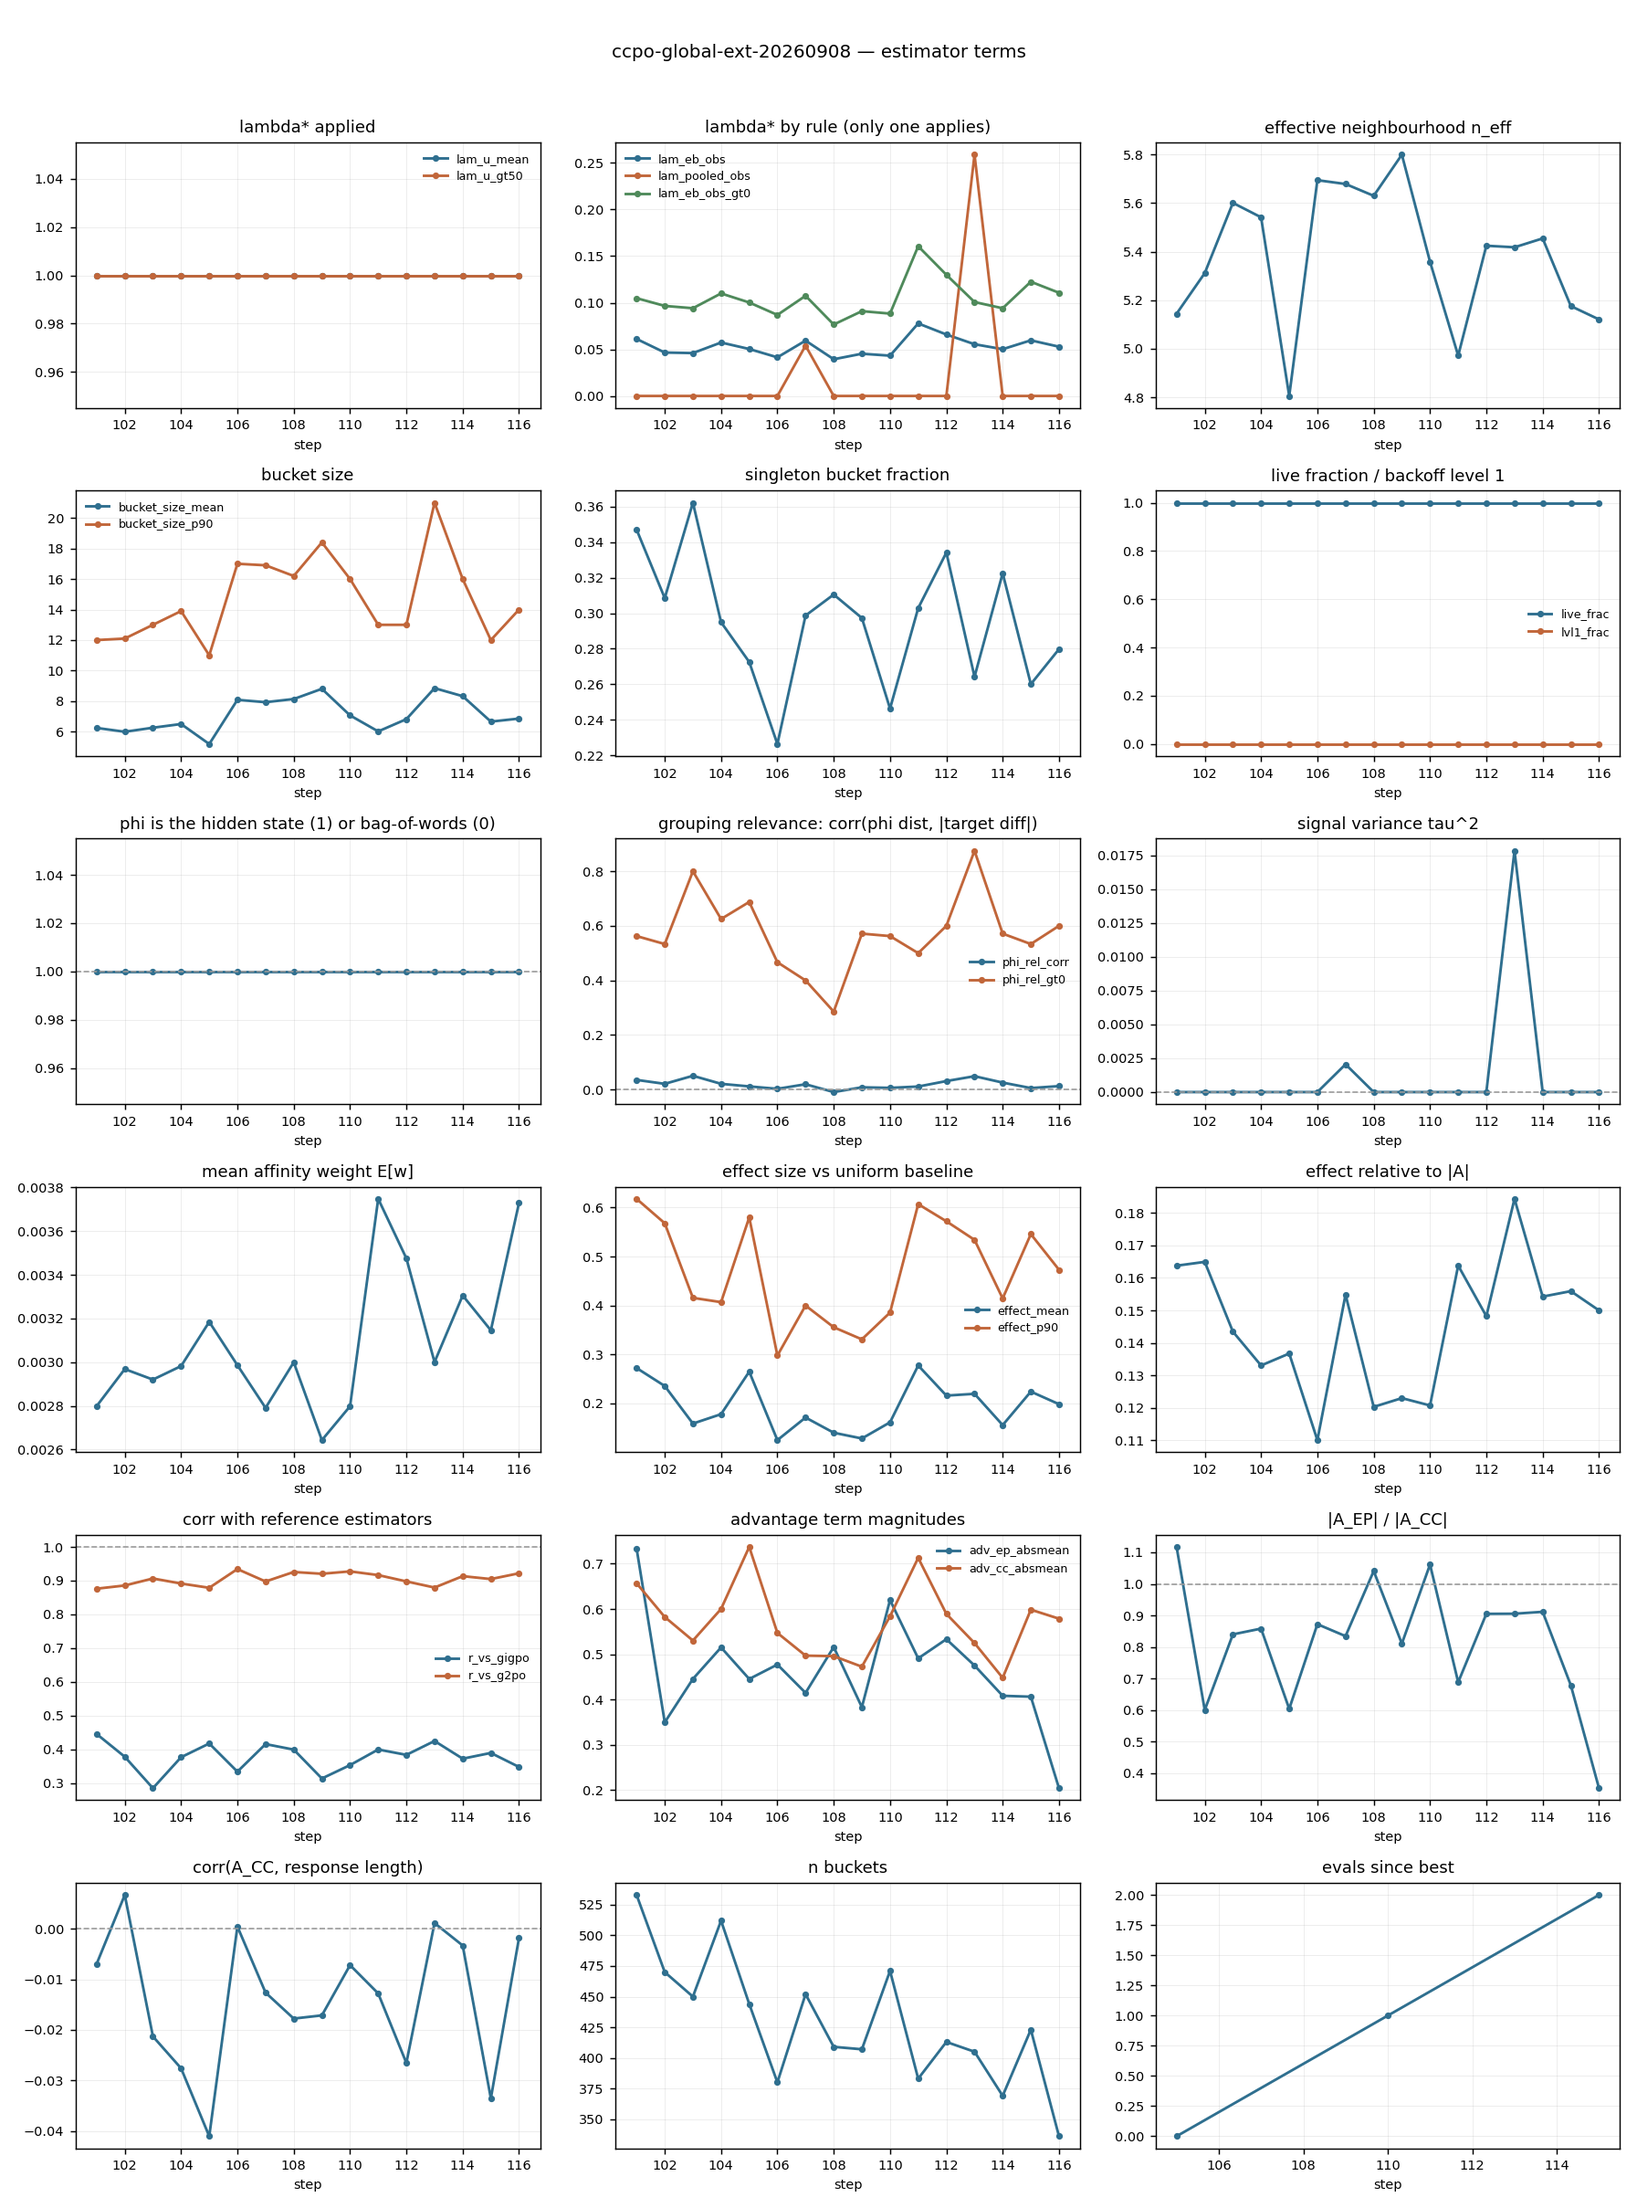
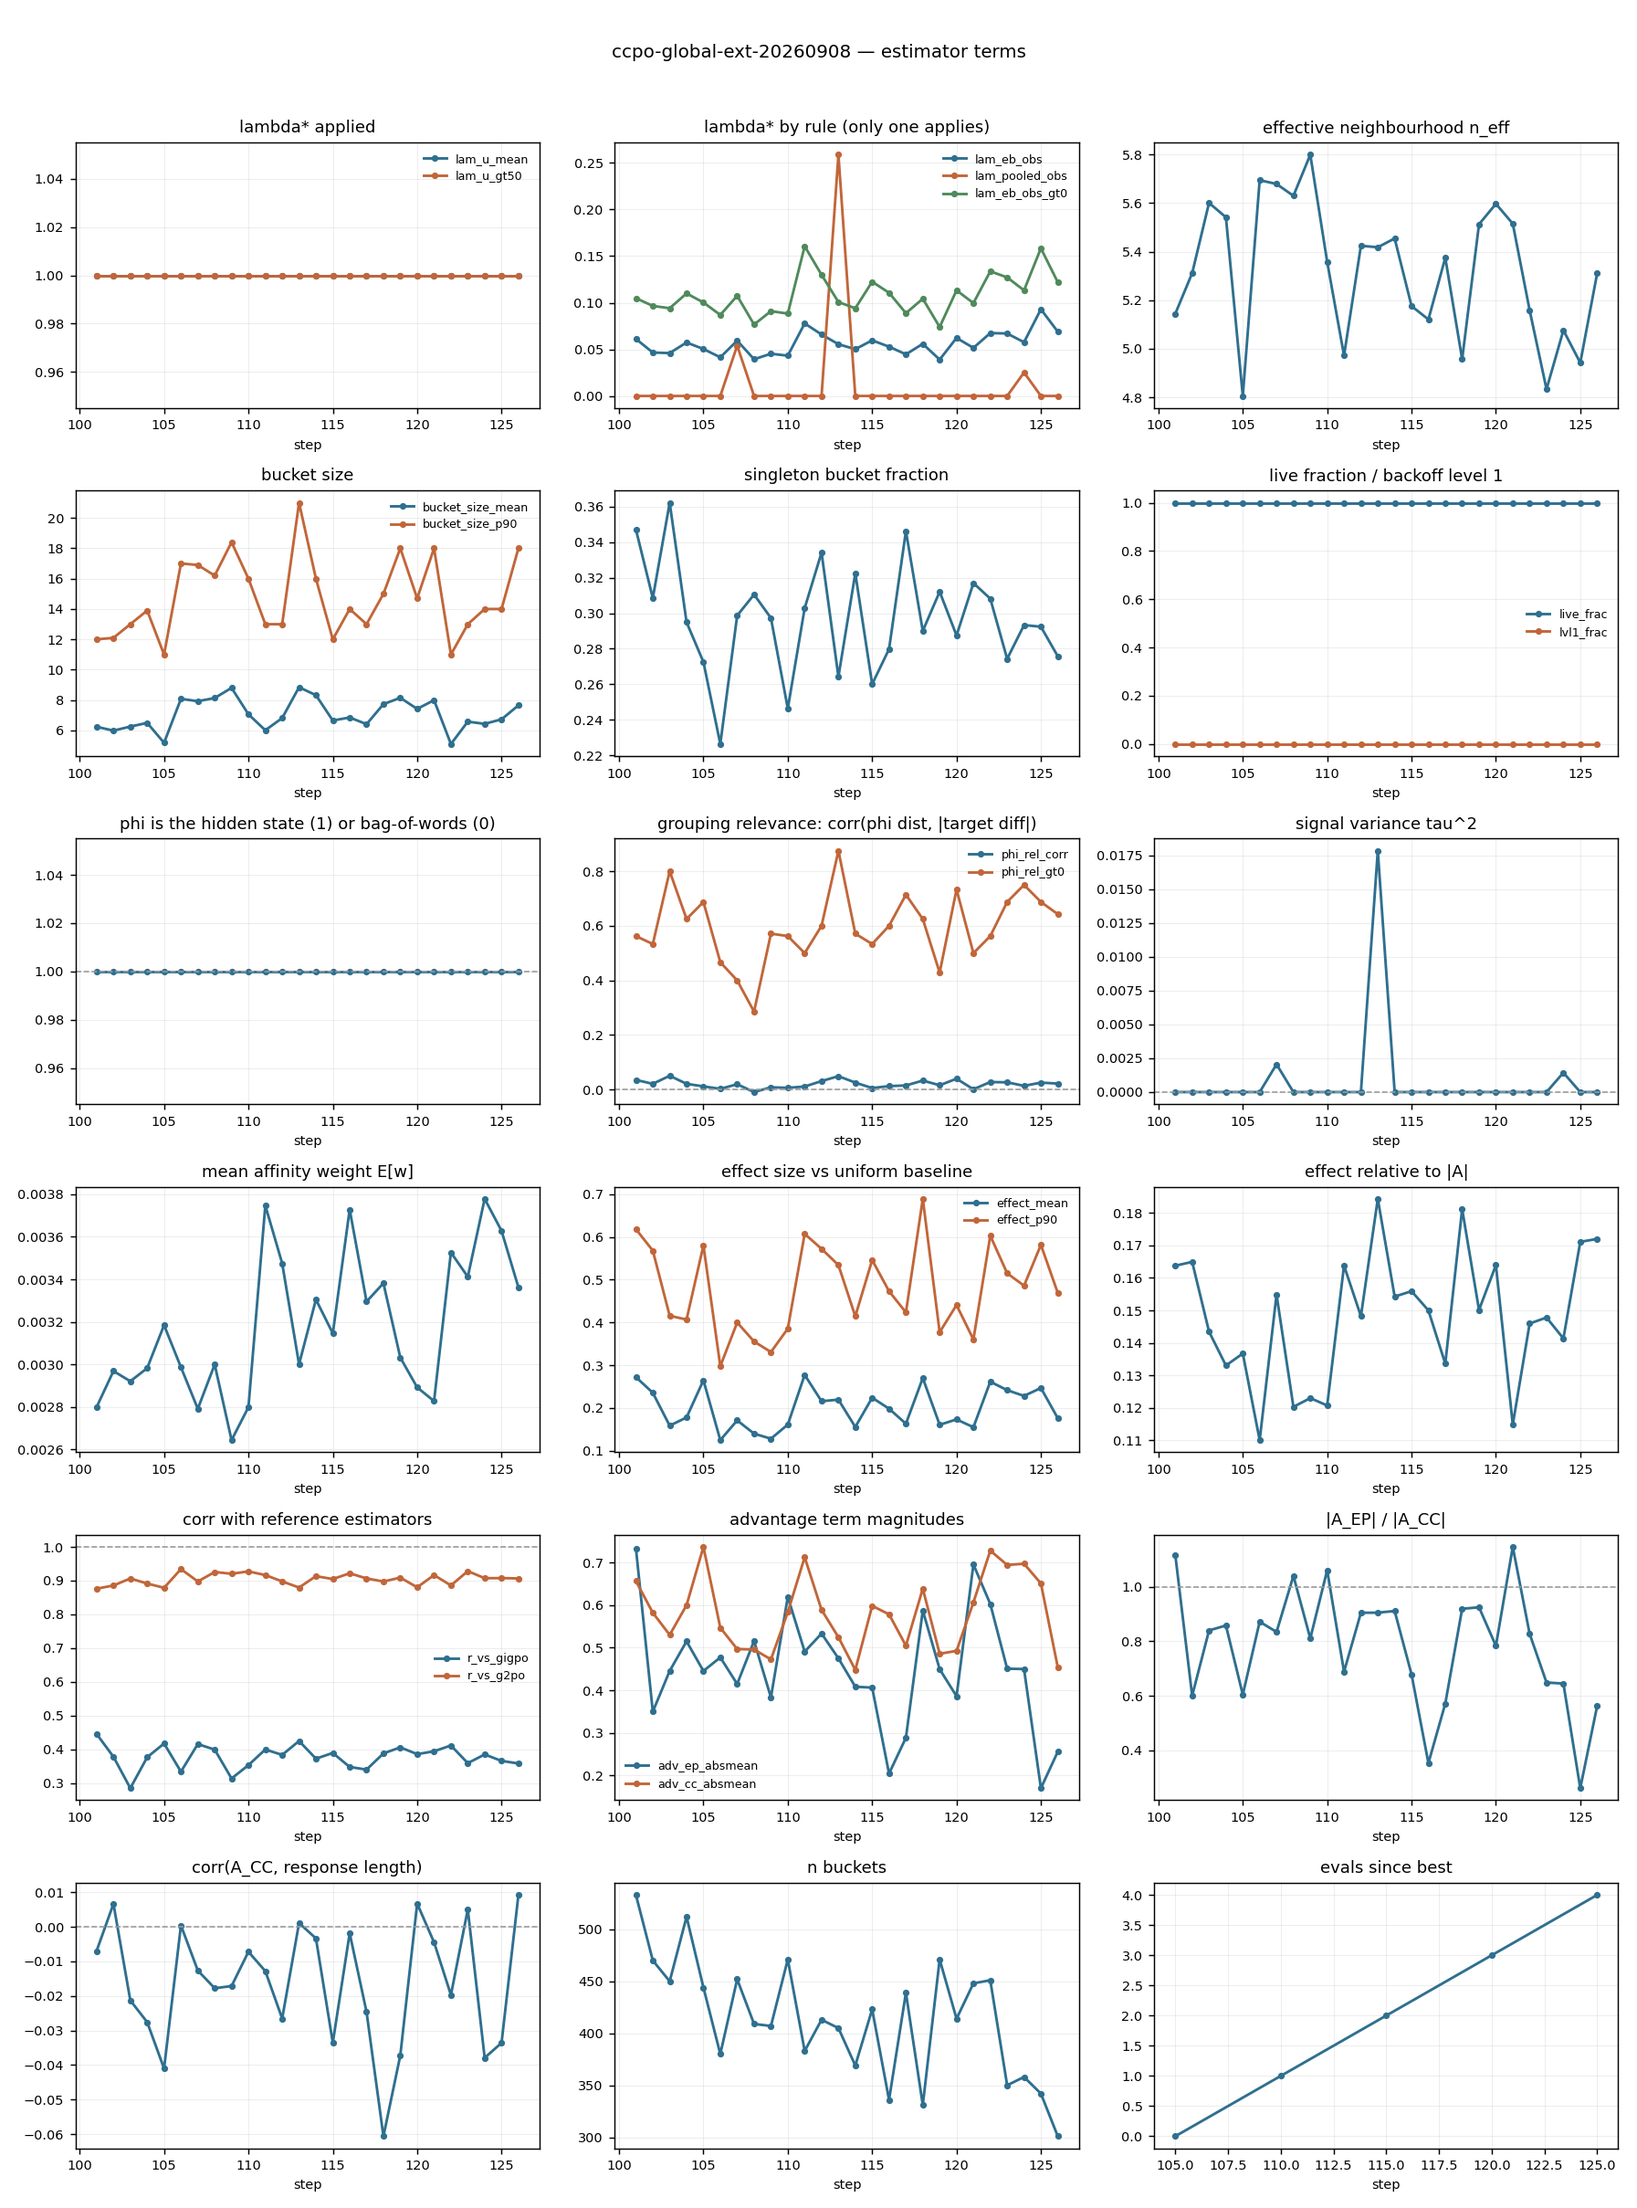
Measurement notes: resumed runs restart their evaluation draw, and correct the pairing justification
Checkpoints contain only actor/ and data.pt -- no environment state -- and make_envs()
runs at main_ppo.py:71, before _load_checkpoint() at ray_trainer.py:1140. A resumed run
therefore rebuilds validation envs with fresh per-seed iterators and replays the game
sequence from the beginning.

Detrended residual correlation (quadratic removed, so it tests the shared draw rather
than the shared learning curve): fresh-vs-fresh +0.667 to +0.773 with p 0.006-0.083,
fresh-vs-resumed +0.235 at p=0.371. Fresh runs share the draw; resumed runs do not.

Affects ccpo-long (resumed at 20) and ccpo-global-ext (resumed at 100, so its step-105
evaluation uses the games the original saw at step 5). The extension's apparent
saturation compares early draws against a late draw and should not be quoted as a
ceiling until both checkpoints are evaluated on the same draw.

Also corrects how the pairing claim was first justified: it rested on RAW correlations
(+0.946), which are confounded because both arms climb from ~10% to ~80%. The detrended
residual is the correct test; it agrees for fresh runs, but the resumed case is exactly
where raw correlation misleads (+0.929 raw vs +0.235 detrended).

Claude-Session: https://claude.ai/code/session_01TnVw4qcXikRNMjxhmmuJXY

diff --git a/experiments/hypothesis.md b/experiments/hypothesis.md
@@ -1708,6 +1708,48 @@ self-corrected to 0.996 within three steps — RL fixed the format unaided.
 
 ## Measurement notes — things that will mislead you
 
+### A RESUMED run restarts its evaluation draw — resumed series are OFFSET (2026-09-08)
+
+The checkpoint contains only `actor/` and `data.pt`. **No environment state.** And
+`make_envs()` runs at `main_ppo.py:71`, *before* `_load_checkpoint()` at
+`ray_trainer.py:1140`. So a resumed run rebuilds its validation environments with
+fresh per-seed iterators and **replays the game sequence from the beginning.**
+
+Detrended residual correlation (quadratic trend removed, so this tests the shared
+*draw* rather than the shared learning curve):
+
+| pair | n | residual corr | perm p |
+|---|---|---|---|
+| `global` vs `hardedge` (both fresh) | 10 | +0.667 | 0.083 |
+| `global` vs `localstd` (both fresh) | 16 | +0.669 | **0.008** |
+| `hardedge` vs `localstd` (both fresh) | 10 | +0.773 | **0.006** |
+| `global` vs `long` (**long RESUMED**) | 16 | +0.235 | 0.371 |
+
+**Fresh runs share the draw. Resumed runs do not.**
+
+**Affected runs:** `ccpo-long-20260906` (resumed at step 20 — its whole series from
+step 25 is offset) and `ccpo-global-ext-20260908` (resumed at 100 — its step-105
+evaluation uses the games the original saw at **step 5**).
+
+**Consequence for the extension's "saturation" reading:** comparing
+`ccpo-global-ext` numbers (early draws) against `ccpo-global`'s step-100 number (late
+draw) is **not the same measurement**. The flat readings may still be real, but that
+comparison is confounded by whatever difficulty difference exists between draws.
+**Do not quote a ceiling from it** until the step-100 and step-125 checkpoints are
+evaluated on the *same* draw — a short eval-only job.
+
+### And a correction to how the pairing claim was first justified
+
+The original note claimed shared draws on the strength of **raw** correlations
+(+0.946 etc.). That statistic was confounded: both arms climb from ~10% to ~80%, and
+that alone produces high correlation regardless of the draw. The **detrended residual**
+above is the correct test. It happens to agree for fresh runs — but the first
+justification was wrong, and the resumed case is exactly where raw correlation misleads
+(+0.929 raw, +0.235 detrended).
+
+### Other notes
+
+
 ### Arms SHARE their evaluation draw — matched-step comparisons are PAIRED (2026-09-08)
 
 Validation environments are built with `seed = env.seed + 1000`, identically in every

diff --git a/HANDOFF.md b/HANDOFF.md
@@ -35,6 +35,13 @@ bucket is *worse* than uniform, and this ablation.
   (corr +0.946 between arms). Matched-step comparisons are therefore **paired**, with
   a delta sd of ~5.3 — *not* the ±13 single-evaluation band. Use the paired sd for
   between-arm claims, ±13 only for one arm's own trajectory.
+* **A RESUMED run restarts its evaluation draw.** Checkpoints hold no env state and
+  `make_envs()` runs before `_load_checkpoint()`, so a resumed run replays the game
+  sequence from the start. Detrended residual correlation: fresh-vs-fresh +0.67 to
+  +0.77 (p<0.01), fresh-vs-resumed +0.235 (p=0.37). **`ccpo-long` and
+  `ccpo-global-ext` are offset from the fresh runs**, so their numbers are not
+  directly comparable at matched steps. Settle any such comparison by re-evaluating
+  both checkpoints on the same draw.
 * **The evaluation set is not fixed.** TextWorld shuffles per worker seed and
   iterates, so every validation draws different games. There is no held-out set held
   constant across steps.
